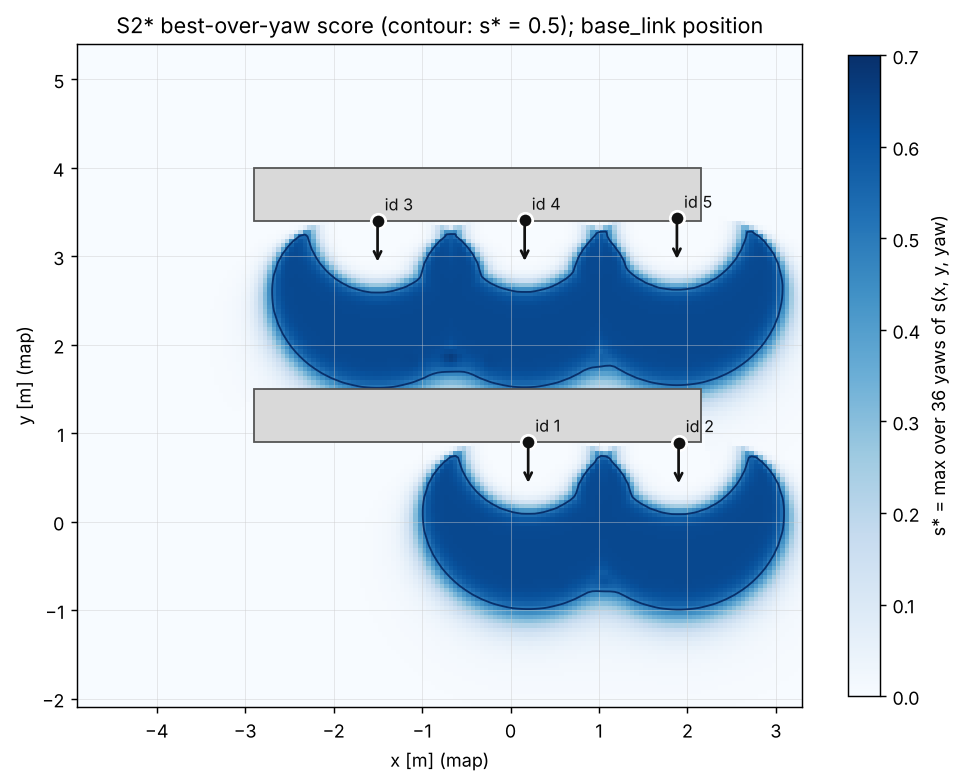
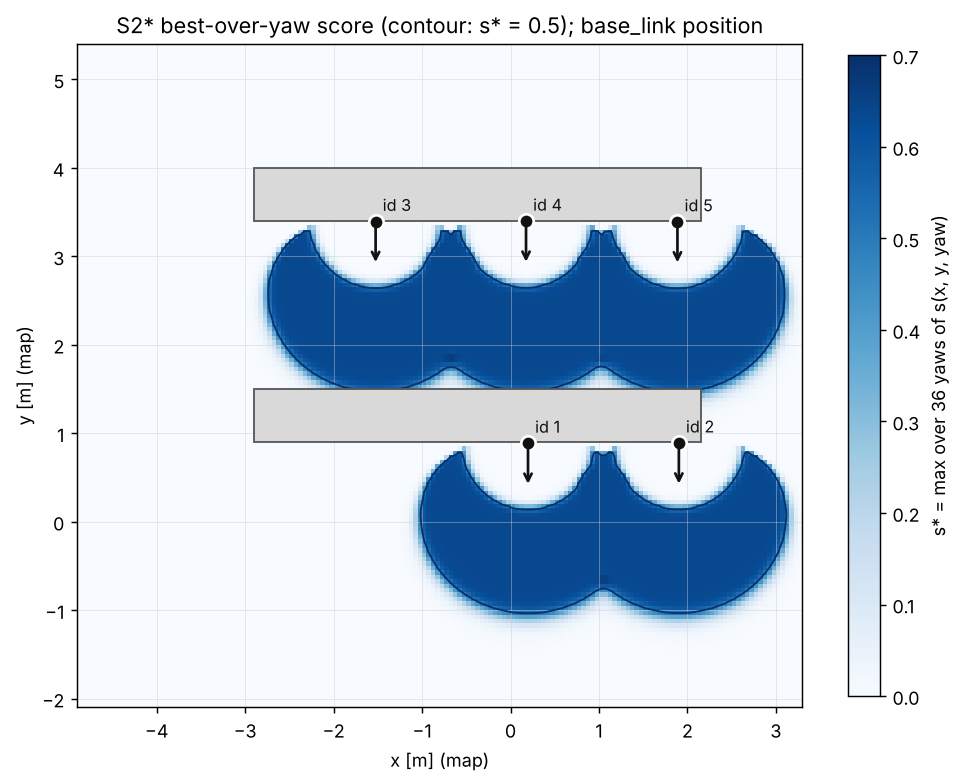
T-012h: figures to an appendix (body <= 2 pages), undo squeezing (EN + RU)
DIR: figures are not squeezed into the 2-page body but moved to an appendix.
Same changes in report.tex and report_ru.tex:
- Body: former Fig. 1 (D-6 trajectories + paired deltas) removed; text refers
  to the appendix (Fig. A1-A3 / рис. П1-П3). TikZ integration diagram stays
  (now Fig. 1). Results table now full width (table*, \footnotesize, normal
  tabcolsep; was \scriptsize, tabcolsep 1.1pt, one column), numbered Table 3.
  Tables 1-2: normal tabcolsep (EN) / \footnotesize + normal tabcolsep (RU,
  was \scriptsize 2.5pt). RU: \looseness removed (6 paragraphs), references
  \footnotesize, TikZ rows 1.1 cm apart, FakeStretch 0.98 -> 0.99 (the one
  compensation still needed: without it the RU body ends ~7 lines onto p. 3).
- Appendix (\clearpage + \onecolumn, label app:start, page 3-4): A1 D-6
  route-lever demo (full width), A2 paired per-seed deltas with 95 % CI (full
  width), A3 s* score map (caption from T-012a). No x4-all-runs figure exists
  in report/figures, so no A4.
- figures/s_star.png regenerated with score_maps.py and the v2 scorer
  defaults (k_A 20, r_min 0.66, k_r 40, = Table 2); the T-012a file used v1.
- build.sh / build_ru.sh: page rule is now "body <= 2 pages" (app:start on
  page <= 3, read from the .aux) and "appendix <= 2 pages" (PDF <= 4 pages);
  both counts are printed.

Claude-Session: https://claude.ai/code/session_011xbhjsNMqh8CVtEcVmNqfM

diff --git a/report/report.tex b/report/report.tex
@@ -1,5 +1,8 @@
 % Active Localization -- 2-page report (T-012a skeleton, T-012b: RND review 05_report_review.md applied).
-% Build: report/build.sh  (latexmk + pdflatex) -> report/report.pdf, must be <= 2 pages.
+% Build: report/build.sh  (latexmk + pdflatex) -> report/report.pdf.
+% Page rule (T-012h, DIR): the BODY (sections 1-6, tables, Fig. 1, references) is <= 2 pages;
+% the figures are in an appendix that starts on page 3 (\clearpage + \onecolumn, label app:start)
+% and takes <= 2 pages (Figs. A1-A3). build.sh checks both from report.aux / pdfinfo.
 %
 % Source convention: every number in the text carries a comment `% src: <file>`.
 %   _team/...  = team bus (DECISIONS, FACTS, tasks, knowledge/rnd)
@@ -85,22 +88,8 @@ $M=1$ because usually at most one marker is in view.
 \begin{equation}
 \mathrm{cost}(x,y)=\mathrm{round}\big(c_{\max}\,(1-\min(s^*/s_{\mathrm{ref}},1))^p\big),
 \end{equation}
-$s_{\mathrm{ref}}=1-e^{-1}\approx0.632$, $p=1$, $c_{\max}=150$ (of 252), added to the master cost as $\min(\text{master}+\text{cost},252)$ on cells that are not lethal, inscribed or unknown; adding (not $\max$) keeps the inflation gradient below $c_{\max}$, so paths do not hug the shelves. Theta* then prefers the low-cost band in front of the marker rows (grey in Fig.~\ref{fig:results}a) when the detour is cheap.
+$s_{\mathrm{ref}}=1-e^{-1}\approx0.632$, $p=1$, $c_{\max}=150$ (of 252), added to the master cost as $\min(\text{master}+\text{cost},252)$ on cells that are not lethal, inscribed or unknown; adding (not $\max$) keeps the inflation gradient below $c_{\max}$, so paths do not hug the shelves. Theta* then prefers the low-cost band in front of the marker rows (the two bands of $s^*$ in Fig.~\ref{fig:smap}) when the detour is cheap.
 % src: _team/tasks/T-009_method_impl.md §3 v2 (additive combine, RND-7 item 2); c_max = 150: _team/DECISIONS.md (D-5 log, DIR 2026-10-18 15:45), nav2_params_active.yaml loc_layer.c_max: 150
-
-% Former Fig. 1 (s_star.png, best-over-yaw score map) removed in T-012e to fit 2 pages:
-% the same s* field is the grey background of Fig. 1a (trajectories). File kept in report/figures/.
-
-% Fig. 1 (results; "Fig. 3a/3b" in RND's 08 §4), full width; defined here so that it floats to the top of page 2.
-\begin{figure*}[t]
-\centering
-\includegraphics[height=3.5cm,trim=0 0 0 36,clip]{figures/trajectories.pdf}\hfill
-\includegraphics[height=3.5cm]{figures/paired_t010b.pdf}
-\caption{(a, left) Route-lever demo (one run): baseline keeps $y=-1.4$\,m and sees no marker; active bends 0.5\,m into the high-$s^*$ band (grey) and faces the markers (arrows). (b, right) Paired differences active $-$ baseline per seed (grey) with mean and 95\,\% $t$-interval (blue).}
-% src (a): runs/d6_20261019_055924/plots/trajectories.pdf (_team/final_inputs/trajectories.pdf; suptitle cropped); caption: _team/final_inputs/08_final_findings.md §4
-% src (b): knowledge/figures/paired_t010b.pdf (scripts/t011_paired_plot.py; _team/final_inputs/paired_t010b.pdf); 08 §4, 07 §B10
-\label{fig:results}
-\end{figure*}
 
 \textbf{Yaw lever: heading DP.} The Theta* path is resampled every 0.20\,m and a Viterbi DP over $B=36$ heading bins $\psi_b$ picks one heading per waypoint ($\phi_j$ = travel direction):
 % src: _team/tasks/T-009_method_impl.md §4 (step 0.20 m, B = 36)
@@ -116,7 +105,6 @@ The heading term is \emph{opportunity-driven}: its weight grows with the quality
 % src: _team/knowledge/rnd/02_RESEARCH_iter2_math.md Block D ("Check of LEAD's 3-lite against RAVPP eq. 15-16"); _team/DECISIONS.md ADR-001 (yaw trigger)
 \begin{table}[t]
 \centering\footnotesize
-\setlength{\tabcolsep}{2.5pt}
 \caption{Building blocks taken from prior work.}
 \label{tab:papers}
 % src: _team/tasks/T-009_method_impl.md §8; _team/knowledge/rnd/02_RESEARCH_iter2_math.md Block D; _team/knowledge/rnd/03_GATE1_RND_recommendation.md
@@ -134,7 +122,6 @@ LWL~\cite{lwl} & ``pixels matter'' $\to$ projected-area gate & no learning (no v
 
 \begin{table}[t]
 \centering\footnotesize
-\setlength{\tabcolsep}{2.5pt}
 \caption{Parameters (spec v2; repository: \texttt{active\_localization.yaml}, active Nav2 params).}
 \label{tab:params}
 % src: _team/tasks/T-009_method_impl.md v2: §1 (f, s), §2 (scorer, v2: k_A 20, r_min 0.66, k_r 40), §3 (layer), §4 (DP, v2: k 2.0 [estimate])
@@ -148,6 +135,40 @@ DP & step 0.20\,m, $B=36$, $w_s=1.0$, $w_f=0.3$, $w_{sm}=0.5$, $k=2.0$\,rad/m, $
 \bottomrule
 \end{tabularx}
 \end{table}
+
+% T-012h: all data figures (former Fig. 1a/1b and the s* map) are in the appendix (Figs. A1-A3, page 3+).
+% The results table (Table 3) is full width; defined here (after Tables 1-2, still on page 1)
+% so that it floats to the top of page 2.
+% ---------------------------------------------------------------------
+% Table 3: x4 summary from eval/summarize.py (_team/final_inputs/summary_table.tex = runs/t010b_20261019_055924/x4/summary/summary_table.tex, 7 rows)
+% + row "Path with marker in view" + column "Delta active - base [95 % CI]" (08 §4, 07 §D3 "Table 2").
+% Changes vs the generated file: APE in mm instead of m (0.040 m = 40 mm, same digits); std columns kept.
+% Inlined (not \input) because of the extra row/column; eval_out/summary_table.tex is no longer read.
+\begin{table*}[t]
+\centering\footnotesize
+\caption{Noise ${\times}4$ (primary): mean $\pm$ std over 5 seeds; $\Delta$: mean paired difference active $-$ baseline, 95\,\% $t$-interval. More metrics: repository.}
+\label{tab:results}
+\begin{tabular}{@{}lcccc@{}}
+\toprule
+Metric & baseline & active & control & $\Delta$ active $-$ baseline [95\,\% CI] \\
+\midrule
+% src: 08_final_findings.md §4 (33 / 66 / 22), C1 (+32 pp [+29, +36]); 07_results_draft.md §D1, §D3
+Path with a marker in view [\%] & 33 & 66 & 22 & $+32$\;[$+29$,\;$+36$] \\
+% src: summary_table.tex rows (x4); Delta CIs: 07_results_draft.md §D3 "Table 2" line, 08 C3
+APE RMSE [mm] & $40\pm2$ & $39\pm3$ & $37\pm1$ & $-1.5$\;[$-6.2$,\;$+3.2$] \\
+APE max [mm] & $119\pm21$ & $117\pm12$ & $109\pm25$ & $-1.9$\;[$-31$,\;$+27$] \\
+Detections per m & $3.0\pm0.8$ & $14.1\pm0.7$ & $3.3\pm0.7$ & $+11.1$\;[$+9.6$,\;$+12.6$] \\
+Max $|$\texttt{map}$\to$\texttt{odom}$|$ [m] & $1.279\pm0.557$ & $1.083\pm0.299$ & $1.069\pm0.335$ & $-0.20$\;[$-0.96$,\;$+0.57$] \\
+% src: time CI 08 C7 / 07 §D3; path length Delta -0.132 (5/5): summary_x4.md "Paired by seed" (no CI computed by RND)
+Time [s] & $36.0\pm1.9$ & $44.2\pm2.0$ & $40.5\pm0.9$ & $+8.2$\;[$+6.9$,\;$+9.4$] \\
+Path length [m] & $16.2\pm0.0$ & $16.1\pm0.1$ & $16.2\pm0.0$ & $-0.13$ (5/5) \\
+Goals reached & 15/15 & 15/15 & 15/15 & -- \\
+\midrule
+% src: summary_x6.md (APE RMSE 0.054 / 0.049 / 0.053 m, APE max 0.160 / 0.138 / 0.159 m); 08 §4
+\multicolumn{5}{@{}l}{${\times}6$ (stress), baseline / active / control: APE RMSE 54 / 49 / 53\,mm, APE max 160 / 138 / 159\,mm.} \\
+\bottomrule
+\end{tabular}
+\end{table*}
 
 % =====================================================================
 \section{Integration in Nav2}
@@ -212,9 +233,9 @@ All series are cropped to [first goal start, last goal end] (start-up relocaliza
 % Text: RND final, _team/final_inputs/08_final_findings.md §3 "§5 Results" (verbatim; only the Table/Fig. references are added)
 All 90 goals of the main experiment were reached (loop\_a, 5 seeds $\times$ 3 modes, modes interleaved per seed, odometry noise ${\times}4$ as pre-registered and ${\times}6$ as an added stress level).
 % src: T-010b_ENG.md "Setup" (90/90 goals); summary_x4.md, summary_x6.md (goals reached 15/15 per mode)
-The method changes what the robot sees, as predicted offline. The path share with a marker in view rose from 33\,\% to 66\,\% at ${\times}4$ (prediction 60\,\%; +32\,pp, 95\,\% CI [+29, +36], 5/5 seeds; Table~\ref{tab:results}, Fig.~\ref{fig:results}b), detections rose ${\times}4.7$ and the longest blind arc fell from 4.9 to 3.3\,m.
+The method changes what the robot sees, as predicted offline. The path share with a marker in view rose from 33\,\% to 66\,\% at ${\times}4$ (prediction 60\,\%; +32\,pp, 95\,\% CI [+29, +36], 5/5 seeds; Table~\ref{tab:results}, Fig.~\ref{fig:paired}), detections rose ${\times}4.7$ and the longest blind arc fell from 4.9 to 3.3\,m.
 % src: 08_final_findings.md C1 (33 -> 66 %, +32 pp [+29, +36], 5/5, predicted 60 %, detections x4.7, blind arc 4.9 -> 3.3 m); 07_results_draft.md §D1; det/m 3.0 -> 14.1: summary_x4.md
-The control (same stack, null scorer) stayed at baseline. When the planned route has no marker in view, the layer bends it into the marker band (Fig.~\ref{fig:results}a: 0.5\,m detour, 0\,$\to$\,69 detections, +2\,s).
+The control (same stack, null scorer) stayed at baseline. When the planned route has no marker in view, the layer bends it into the marker band (Fig.~\ref{fig:demo}: 0.5\,m detour, 0\,$\to$\,69 detections, +2\,s).
 % src: 08 C1 (control ~ baseline; path share 22 %, det/m 3.3: 07 §D3, summary_x4.md); 08 C2 / T-010b_ENG.md D-6 (y -1.24 ... -0.86, bends 0.54 m; detections 0 -> 69; +0.15 m, +2.1 s)
 Accuracy at ${\times}4$ did not change measurably: APE RMSE $\Delta=-1.5$\,mm [$-6.2$, $+3.2$] (baseline 40\,mm), so the gain is at most 6\,mm.
 % src: 08 C3 (-1.5 mm [-6.2, +3.2], 3/5; upper bound 6.2 mm ~ 16 %); baseline 0.040 m: summary_x4.md
@@ -232,38 +253,6 @@ The control was slightly more accurate than the baseline at ${\times}4$ ($-2.7$\
 Limitations: one scenario, 5 seeds, simulation; ${\times}6$ was added after the first run; the route demo is a single run; the detection model was fitted on one marker. Improvements: an uncertainty-gated heading term to cut the time cost, a lidar-degeneracy term in the scorer, and tests in ICP-poor corridors.
 % src: 08 §3; FACTS.md 18.10 (ENG-10 detection model fitted on one marker); DECISIONS.md D-7 (lidar-degraded condition deferred)
 
-% ---------------------------------------------------------------------
-% Table 3: x4 summary from eval/summarize.py (_team/final_inputs/summary_table.tex = runs/t010b_20261019_055924/x4/summary/summary_table.tex, 7 rows)
-% + row "Path with marker in view" + column "Delta active - base [95 % CI]" (08 §4, 07 §D3 "Table 2").
-% Changes vs the generated file: APE in mm instead of m (0.040 m = 40 mm, same digits); std columns kept.
-% Inlined (not \input) because of the extra row/column; eval_out/summary_table.tex is no longer read.
-\begin{table}[t]
-\centering\scriptsize
-\setlength{\tabcolsep}{1.1pt}
-\caption{Noise ${\times}4$ (primary): mean $\pm$ std over 5 seeds; $\Delta$: mean paired difference active $-$ baseline, 95\,\% $t$-interval. More metrics: repository.}
-\label{tab:results}
-\begin{tabular}{@{}lcccc@{}}
-\toprule
-Metric & baseline & active & control & $\Delta$ [95\,\% CI] \\
-\midrule
-% src: 08_final_findings.md §4 (33 / 66 / 22), C1 (+32 pp [+29, +36]); 07_results_draft.md §D1, §D3
-Path with marker [\%] & 33 & 66 & 22 & $+32$\,[$+29$,\,$+36$] \\
-% src: summary_table.tex rows (x4); Delta CIs: 07_results_draft.md §D3 "Table 2" line, 08 C3
-APE RMSE [mm] & $40\!\pm\!2$ & $39\!\pm\!3$ & $37\!\pm\!1$ & $-1.5$\,[$-6.2$,\,$+3.2$] \\
-APE max [mm] & $119\!\pm\!21$ & $117\!\pm\!12$ & $109\!\pm\!25$ & $-1.9$\,[$-31$,\,$+27$] \\
-Detections per m & $3.0\!\pm\!0.8$ & $14.1\!\pm\!0.7$ & $3.3\!\pm\!0.7$ & $+11.1$\,[$+9.6$,\,$+12.6$] \\
-Max $|$\texttt{map}$\to$\texttt{odom}$|$ [m] & $1.279\!\pm\!0.557$ & $1.083\!\pm\!0.299$ & $1.069\!\pm\!0.335$ & $-0.20$\,[$-0.96$,\,$+0.57$] \\
-% src: time CI 08 C7 / 07 §D3; path length Delta -0.132 (5/5): summary_x4.md "Paired by seed" (no CI computed by RND)
-Time [s] & $36.0\!\pm\!1.9$ & $44.2\!\pm\!2.0$ & $40.5\!\pm\!0.9$ & $+8.2$\,[$+6.9$,\,$+9.4$] \\
-Path length [m] & $16.2\!\pm\!0.0$ & $16.1\!\pm\!0.1$ & $16.2\!\pm\!0.0$ & $-0.13$ (5/5) \\
-Goals reached & 15/15 & 15/15 & 15/15 & -- \\
-\midrule
-% src: summary_x6.md (APE RMSE 0.054 / 0.049 / 0.053 m, APE max 0.160 / 0.138 / 0.159 m); 08 §4
-\multicolumn{5}{@{}p{\linewidth}@{}}{${\times}6$ (stress): APE RMSE 54 / 49 / 53\,mm, APE max 160 / 138 / 159\,mm.} \\
-\bottomrule
-\end{tabular}
-\end{table}
-\vspace{-2pt}
 \footnotesize
 \begin{thebibliography}{9}\setlength{\itemsep}{0pt}
 \bibitem{fif} Z.~Zhang, D.~Scaramuzza, ``Fisher Information Field: an Efficient and Differentiable Map for Perception-aware Planning,'' arXiv:2008.03324, 2020.
@@ -272,5 +261,43 @@ Goals reached & 15/15 & 15/15 & 15/15 & -- \\
 \bibitem{actloc} J.~Li et al., ``ActLoc: Learning to Localize on the Move via Active Viewpoint Selection,'' in Proc.\ CoRL, 2025.
 \end{thebibliography}
 % src (references): first pages of the PDFs in docs/ (arXiv ids, IROS 2024 header, CoRL 2025 footer)
+
+% =====================================================================
+% APPENDIX (T-012h, DIR): figures, page 3+, at most 2 pages. Not part of the 2-page body;
+% build.sh checks that the label app:start is on page 3 (body <= 2 pages).
+% =====================================================================
+\clearpage
+\onecolumn
+\setcounter{figure}{0}
+\renewcommand{\thefigure}{A\arabic{figure}}
+\captionsetup{font=small,skip=4pt}
+\setlength{\textfloatsep}{12pt plus 2pt}\setlength{\floatsep}{12pt plus 2pt}
+\makeatletter\setlength{\@fptop}{0pt}\makeatother% float pages (Fig. A3) top-aligned
+\phantomsection\label{app:start}
+\section*{Appendix: Figures}
+
+\begin{figure}[h]
+\centering
+\includegraphics[width=\textwidth,trim=0 0 0 36,clip]{figures/trajectories.pdf}
+\caption{Route-lever demo (D-6: one run, seed 42, noise ${\times}4$, a straight leg planned at $y=-1.4$\,m below the marker rows). Thin dashed: ground truth; thick: estimate; arrows: estimated heading every 0.5\,m; grey background: $s^*$ (Fig.~\ref{fig:smap}). The baseline (left) keeps $y=-1.4$\,m and sees no marker; the active mode (right) bends 0.5\,m into the high-$s^*$ band and faces the markers.}
+% src: runs/d6_20261019_055924/plots/trajectories.pdf (_team/final_inputs/trajectories.pdf; suptitle cropped, its legend text is in the caption); caption: _team/final_inputs/08_final_findings.md §4; T-010b_ENG.md "D-6"
+\label{fig:demo}
+\end{figure}
+
+\begin{figure}[h]
+\centering
+\includegraphics[width=\textwidth]{figures/paired_t010b.pdf}
+\caption{Paired differences active $-$ baseline per seed (grey) with mean and 95\,\% $t$-interval (blue), $n=5$ seeds per noise level (${\times}4$ primary, ${\times}6$ stress). Left: path share with a marker in view; right: APE RMSE.}
+% src: knowledge/figures/paired_t010b.pdf (scripts/t011_paired_plot.py on runs/t010b_20261019_055924/{x4,x6}; _team/final_inputs/paired_t010b.pdf); 08 §4, 07 §B10
+\label{fig:paired}
+\end{figure}
+
+\begin{figure}[p]
+\centering
+\includegraphics[width=0.9\textwidth]{figures/s_star.png}
+\caption{Best-over-yaw score $s^*(x,y)$ of S2* (max over 36 yaws, base\_link position; contour $s^*=0.5$). Grey: shelf rows; arrows: marker normals. The two bands are what the route lever attracts the path to.}
+% src: navigation/src/active_localization/tools/score_maps.py (Python oracle, 36 yaws = T-009 §3), regenerated in T-012h with the v2 scorer (k_A 20, r_min 0.66, k_r 40 = Table 2); caption: T-012a (git history of this file)
+\label{fig:smap}
+\end{figure}
 
 \end{document}

diff --git a/report/figures/README.md b/report/figures/README.md
@@ -1,17 +1,18 @@
 # report/figures
 
 Figures used by `report/report.tex` and by its Russian translation `report/report_ru.tex`
-(same files; in `report_ru.tex` Fig. 1 is set at height 3.2 cm instead of 3.5 cm to keep the
-longer Russian text within 2 pages).
+(same files). Since T-012h all data figures are in the **appendix** (page 3+, at most 2 pages),
+full text width; the 2-page body contains only the TikZ integration diagram (Fig. 1) and the
+tables, and refers to the appendix figures (EN "Fig. A1-A3", RU "рис. П1-П3").
 
 | File | Produced by | Used in |
 |---|---|---|
-| `trajectories.pdf` | `eval/plots.py` on the D-6 route-lever demo, `runs/d6_20261019_055924/plots/trajectories.pdf` (seed 42, noise x4, `shelves_south_wall.yaml`; s* background, estimated heading every 0.5 m). The suptitle is cropped in LaTeX (`trim`). | Fig. 1a (results) |
-| `paired_t010b.pdf` | `scripts/t011_paired_plot.py` on `runs/t010b_20261019_055924/{x4,x6}` (RND, `knowledge/figures/paired_t010b.pdf`): per-seed paired differences active - baseline with mean and 95 % t-interval | Fig. 1b (results) |
-| `s_star.png` | `navigation/src/active_localization/tools/score_maps.py --out <dir>` (T-009a; best-over-yaw S2* score, 36 yaws) | not used since T-012e (removed to fit 2 pages; the same field is the background of Fig. 1a) |
+| `trajectories.pdf` | `eval/plots.py` on the D-6 route-lever demo, `runs/d6_20261019_055924/plots/trajectories.pdf` (seed 42, noise x4, `shelves_south_wall.yaml`; s* background, estimated heading every 0.5 m). The suptitle is cropped in LaTeX (`trim`); its legend text is in the caption. | Fig. A1 / П1 |
+| `paired_t010b.pdf` | `scripts/t011_paired_plot.py` on `runs/t010b_20261019_055924/{x4,x6}` (RND, `knowledge/figures/paired_t010b.pdf`): per-seed paired differences active - baseline with mean and 95 % t-interval | Fig. A2 / П2 |
+| `s_star.png` | `python3 -I navigation/src/active_localization/tools/score_maps.py --out <dir>` (best-over-yaw S2* score, 36 yaws). Regenerated in T-012h with the v2 scorer defaults (k_A 20, r_min 0.66, k_r 40, as in Table 2); the T-012a file used the v1 parameters. | Fig. A3 / П3 |
 
-The integration diagram (Fig. 2) is TikZ inside `report.tex`.
-The results table (Table 3) is inlined in `report.tex`: the x4 summary from
+The integration diagram (Fig. 1) is TikZ inside the `.tex` files.
+The results table (Table 3, full width) is inlined in the `.tex` files: the x4 summary from
 `eval/summarize.py` (`runs/t010b_20261019_055924/x4/summary/summary_table.tex`)
-plus the "Path with marker" row and the paired-CI column from RND's T-011
+plus the "Path with a marker in view" row and the paired-CI column from RND's T-011
 analysis (`08_final_findings.md` §4).
